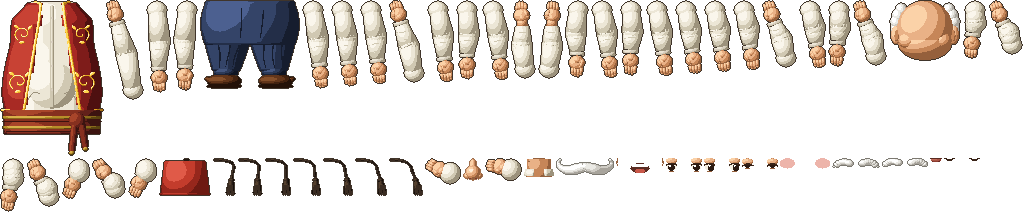
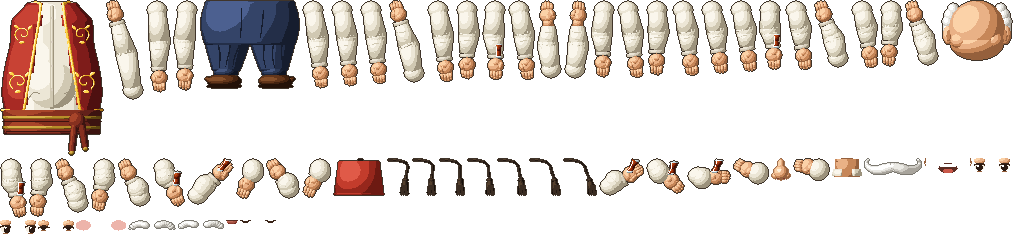
Dayı'ya çay yudumu jesti
Bekleme döngüsündeki boş üçüncü jest yuvası: sol kol ince belli çay
bardağıyla kalkar, yudumda gözler yarı kapanır, kol iner. 8 kare iki
ölçekte (dayi, dayi82) Blender'da; kol yüze yaklaşınca kafanın önüne çizilir.

Changed region(s): [[0.0, 0.0, 1.0, 1.0], [0.125, 0.0, 0.1875, 0.0283]]

diff --git a/blender/models/dayi_hd.py b/blender/models/dayi_hd.py
@@ -60,8 +60,11 @@ DUDAK = ["#6a2a22", "#8e3c30", "#a85444", "#c06a58"]
 STOPS = [0.0, 0.34, 0.62, 0.86]
 EK = ["#ffffff", "#2b1a12", "#1a120c", "#f6efe2", "#5a2c22", "#7a3a30", "#c9584a", "#e07a68", "#fff0dc",
       "#3a2418", "#d9cfc0", "#6e6a62"]
+# BIRLESIK (6. tur, madde 6): ince belli bardakta demli cay (yudum jesti)
+CAY = ["#3e0e04", "#6a1c08", "#96300c", "#c24e18"]
+CAM = ["#8a9ea4", "#c4d6da", "#e6f0f2", "#ffffff"]
 IZINLI = sorted(set(sum([SKIN, GOMLEK, YELEK, ALTIN, KUSAK, KUSAK2, SALVAR, LASTIK, CIZME, AK, FES, FES_UST,
-                         PUSKUL, DUDAK], []) + EK))
+                         PUSKUL, DUDAK, CAY, CAM], []) + EK))
 
 
 def sahne():
@@ -462,6 +465,26 @@ KESIM_KARE = 11
 JEST_KARE = 8
 
 
+def cay_bardagi(ad, bx, by, derin, egim):
+    """Ince belli cay bardagi: dibi elin icinde, agzi egim (radyan) yonunde.
+    Govde demli cay rengi (cam ince, icerik okunur), agizda cam halka, yanda
+    parlak cizgi."""
+    ux, uy = math.sin(egim), -math.cos(egim)
+    MC = cel("Cay", CAY)
+    MG = cel("CayCam", CAM)
+    p0 = (bx, by)
+    p1 = (bx + ux * 2.8, by + uy * 2.8)
+    p2 = (bx + ux * 6.0, by + uy * 6.0)
+    tup(ad + "_alt", p0, p1, 1.7, derin, MC, r_b=1.15)
+    tup(ad + "_ust", p1, p2, 1.15, derin, MC, r_b=1.85)
+    elipsoid(ad + "_dip", p0[0], p0[1], 1.8, 0.7, 1.8, derin, MG, seg=14, ring=8)
+    elipsoid(ad + "_agiz", p2[0], p2[1], 1.95, 0.45, 1.95, derin, MG, seg=16, ring=8)
+    nx, ny = -uy, ux
+    egri_tup(ad + "_isik", [(p0[0] - nx * 1.1, p0[1] - ny * 1.1, derin - 1.5),
+                            (p1[0] - nx * 0.7, p1[1] - ny * 0.7, derin - 1.3),
+                            (p2[0] - nx * 1.3, p2[1] - ny * 1.3, derin - 1.7)], [0.22, 0.18, 0.22], px.flat("CayIsik", "#ffffff"))
+
+
 def kol_katmani(ad):
     """Katman adindan poz: kol_sol_bosta, kol_sag_jest_fes_3 ..."""
     by, hx, hy = 50, 23, 30
@@ -482,6 +505,14 @@ def kol_katmani(ad):
         kol(ad, (42.5, by + 9), (46, by + 34 + sw))
     elif ad == "kol_sol_kesim":
         kol(ad, (4.5, by + 12), (4, by + 36.5))
+    elif ad.startswith("kol_sol_cay_"):
+        # yudum: el kalcadan cenenin soluna kalkar, bardak agiza dogru egilir
+        k = int(ad.split("_")[-1]) / float(JEST_KARE)
+        elx = 3.5 + (14.5 - 3.5) * k
+        ely = (by + 40) + (49.0 - (by + 40)) * k
+        d = -6.0 * k - 2.0
+        kol(ad, (4.5, by + 9), (elx, ely), derin=d)
+        cay_bardagi(ad + "_bardak", elx + 1.2, ely - 2.4, d - 2.5, math.radians(38.0) * k * k)
     elif ad == "kol_sol_mutlu":
         kol(ad, (3.5, by + 11), (2, by - 14), manset=False)
     elif ad == "kol_sag_mutlu":
@@ -678,6 +709,7 @@ katman("agiz_mutlu", lambda: agiz(True), cizgi=False)
 for ad in (["kol_sol_bosta", "kol_sag_bosta", "kol_sol_kesim", "kol_sol_mutlu", "kol_sag_mutlu"]
            + ["kol_sag_jest_fes_%d" % i for i in range(1, JEST_KARE + 1)]
            + ["kol_sag_jest_biyik_%d" % i for i in range(1, JEST_KARE + 1)]
+           + ["kol_sol_cay_%d" % i for i in range(1, JEST_KARE + 1)]
            + ["kol_sag_kesim_%d" % i for i in range(KESIM_KARE)]):
     katman(ad, lambda ad=ad: kol_katmani(ad))
 

diff --git a/BIRLESIK.md b/BIRLESIK.md
@@ -170,7 +170,7 @@ Kullanıcının sırası: **1, 2, 9 → 15, 18 → 10 → kalanlar**. Biten madd
 - [x] 3 Yazılar HD'de Scale2x (EPX) ile 2x ızgarada (genişlik/düzen aynı, kavisler yumuşak); kutular ve ikonlar zaten HD
 - [x] 4 Parçacık: konfeti dönen kâğıt, büyük benek yuvarlak, hızlı kıvılcım/kırıntı kısa izli
 - [x] 5 Müşteri ifadesi okunur: sabırsız (0,55 altı) ter damlası, kızgın öfke damarı + kırmızı yanak, mutlu pembe yanak (hd_musteri_dizi --ruh)
-- [ ] 6 Dayı'nın hareket çeşidi az
+- [x] 6 Dayı: üçüncü jest çay yudumu (ince belli bardak, 8 kare, yudumda gözler yarı kapalı, kol yüzün önüne geçer); mevcut: nefes, fes/bıyık jesti, kırpma, sevinç
 - [ ] 7 Gece hırsız sahnesi sönük
 - [x] 8 Dükkân: alınan istasyon gri sahnede renkli belirir + altın çerçeve, 1,6 sn'de griye döner (gpu_canvas mono_kar)
 - [ ] 11 Kötü günün bedeli yok (itibar vb.)
